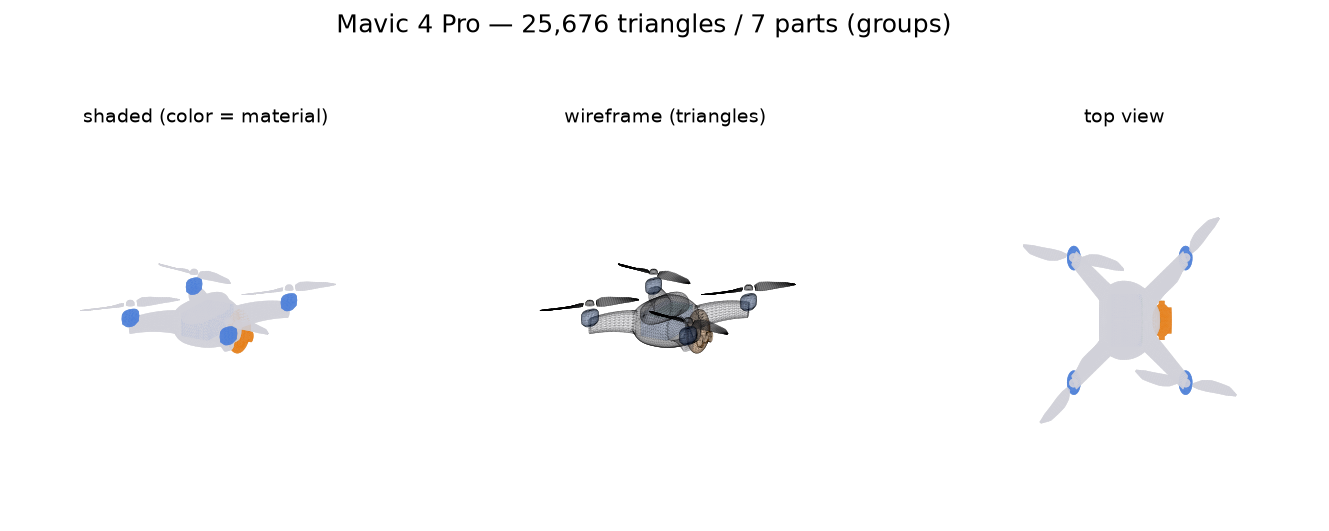
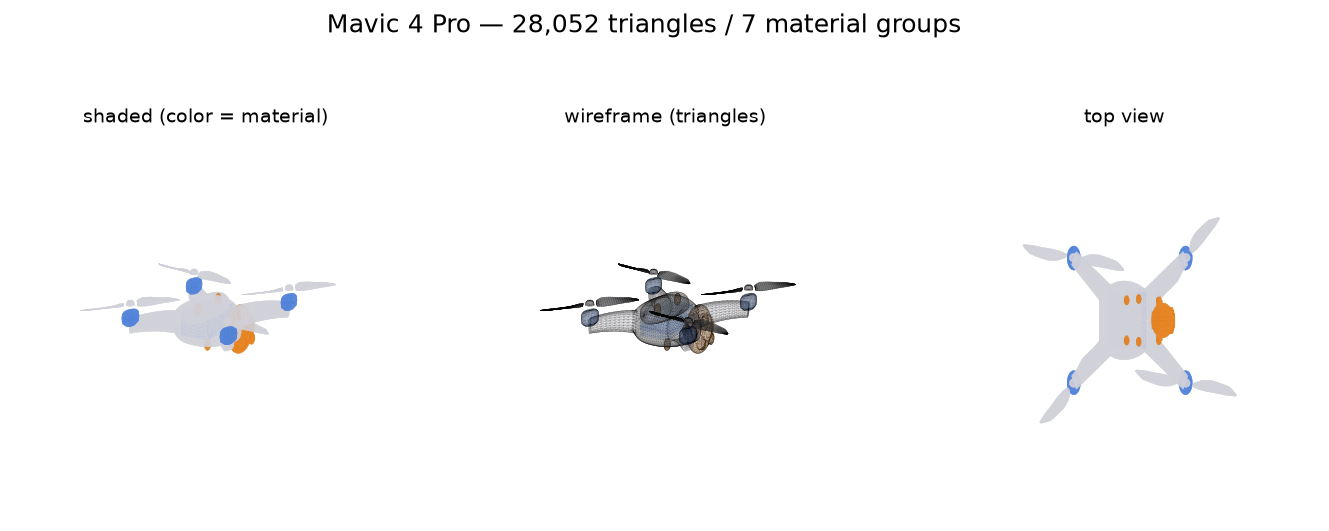
report_mesh 8편 폴리시 — 병렬 리뷰(29에이전트) 확정 findings 적용 (파일 1~8 순차)
mesh01: 그림 삼각형수 재생성(28,052)·제목 'material groups'·Mini 대각 저널서술→현재상태·경로참조·프롭 회색.
mesh02: viz_mesh_reports 함수 라인참조 152-178 정정.
mesh03: 원본 갤러리를 report03 실제 세트(Phantom·Typhoon·M100·M600, 원판프롭 라벨)로 교체·세트 문서 일치화·SOURCES 1345(13×4.5).
mesh04: 스캔중앙값 6.4→5.3mm·Matrice 대각부호 +2.30→-2.30%(abs→부호유지)·accent 색주장→플라스틱회색·carbon 범례.
mesh05: micro-Doppler §4→§5·Matrice RPM 3800 근거·프롭지름 267mm 통일·팁각 범위 Matrice 포함·프롭 면적 43%.
mesh06: accent 오주장 제거·prop_plastic 실효|Γ| 행 추가·이모지 🔎→⚠.
mesh07: mesh08 교차참조 §목록 정정·요약에 부위(그룹) 층 추가.
mesh08: 대각부호·수렴 dB경계 Phantom 포함·최대값 표현 정리.

diff --git a/report_mesh/src/make_mesh08.py b/report_mesh/src/make_mesh08.py
@@ -141,7 +141,7 @@ md(
 "2. **직접 먹인 값 (프로펠러 지름)** — 스펙 지름을 파라메트릭 블레이드에 직접 넣는다. 그런데 5종 모두 오차가 약 "
 f"+{prop_err['mavic4pro']:.2f}% 로 **똑같다** — 5종이 같은 블레이드 함수(`drone_cad.py:334` `build_propeller_cad`, 스키미터 후퇴 + 팁 마감)를 반경만 바꿔 쓰므로, 팁 최외곽점이 명목 반경을 살짝 넘는 파라메트릭 형상 특성이 공통 비율로 나타난 것이다. 결함이 아니라 형상 선택의 흔적이다.",
 "3. **따라나온 값 (대각선)** — 외형을 공식값에 맞춘 **결과로 유도되는** 모터-모터 거리. 아무도 직접 맞추지 않았으므로 이것이 **진짜 교차검증**이다. 최대 "
-f"{max(abs(v) for v in diag_err.values()):+.2f}% ({NAME[max(diag_err, key=lambda k: abs(diag_err[k]))]}) 로, 두 공식값(외형 상자 vs 대각)이 동시에 정확히는 양립하지 않는 기종에서 외형을 우선한 대가다.",
+f"{diag_err[max(diag_err, key=lambda k: abs(diag_err[k]))]:+.2f}% ({NAME[max(diag_err, key=lambda k: abs(diag_err[k]))]}) 로, 두 공식값(외형 상자 vs 대각)이 동시에 정확히는 양립하지 않는 기종에서 외형을 우선한 대가다.",
 ),
 
 # ── 4. 치수 표 코드 ──────────────────────────────────────────────────────
@@ -300,11 +300,11 @@ for key, h in H.items():
 md(
 "![convergence](outputs/figures/convergence.png)",
 "",
-f"(a) Mavic 4 Pro 의 방위 RCS 패턴 — λ/10(파랑)과 λ/20(빨강)이 로브(봉우리) 영역에서는 거의 포개진다. 방위평균 이동은 {hm['azavg_dbsm']['diff']:+.2f} dB(Phantom 4 는 {hp['azavg_dbsm']['diff']:+.2f} dB) — **±0.4 dB 이내**다. (b) 는 다음 절의 SBR 검사. ← 출처: 그림 `report_mesh/src/viz_mesh_reports.py:372-412` `fig_convergence()`",
+f"(a) Mavic 4 Pro 의 방위 RCS 패턴 — λ/10(파랑)과 λ/20(빨강)이 로브(봉우리) 영역에서는 거의 포개진다. 방위평균 이동은 {hm['azavg_dbsm']['diff']:+.2f} dB(Phantom 4 는 {hp['azavg_dbsm']['diff']:+.2f} dB) — **둘 다 ±{max(abs(hm['azavg_dbsm']['diff']), abs(hp['azavg_dbsm']['diff'])):.1f} dB 이내**다. (b) 는 다음 절의 SBR 검사. ← 출처: 그림 `report_mesh/src/viz_mesh_reports.py:372-412` `fig_convergence()`",
 "",
 "### 왜 개별 널은 " f"{hm['per_angle_absdiff_db']['max']:.0f} dB 씩 튀는데 괜찮다고 하는가",
 "",
-f"널은 여러 산란 기여가 **정확히 상쇄**되는 각도다. 노이즈캔슬링 이어폰이 위상이 조금만 어긋나도 '싹 사라짐'이 '조금 사라짐'으로 바뀌듯, 상쇄점 근처에서는 점 배치가 파장의 몇 % 만 달라져도 dB 눈금으로는 폭발적으로 변한다(0 에 가까운 값의 로그라 더 그렇다). 실제로 개별 각도 차이의 **평균은 {hm['per_angle_absdiff_db']['mean']:.1f}~{hp['per_angle_absdiff_db']['mean']:.1f} dB** 인데 최대만 {hm['per_angle_absdiff_db']['max']:.1f}~{hp['per_angle_absdiff_db']['max']:.1f} dB 다 — 흔들리는 것은 소수의 깊은 널뿐이다.",
+f"널은 여러 산란 기여가 **정확히 상쇄**되는 각도다. 노이즈캔슬링 이어폰이 위상이 조금만 어긋나도 '싹 사라짐'이 '조금 사라짐'으로 바뀌듯, 상쇄점 근처에서는 점 배치가 파장의 몇 % 만 달라져도 dB 눈금으로는 폭발적으로 변한다(0 에 가까운 값의 로그라 더 그렇다). 실제로 개별 각도 차이의 **평균은 {hm['per_angle_absdiff_db']['mean']:.1f}~{hp['per_angle_absdiff_db']['mean']:.1f} dB** 인데 최대만 {max(hm['per_angle_absdiff_db']['max'], hp['per_angle_absdiff_db']['max']):.1f} dB 안팎이다 — 흔들리는 것은 소수의 깊은 널뿐이다.",
 "",
 "**그리고 검출 문제에서 중요한 것은 평균이다.** 실제 드론은 자세가 계속 변하고 프로펠러가 돌아 널 위치가 쉼 없이 이동한다 — 수신기가 겪는 것은 특정 널 하나가 아니라 각도 분포의 **평균적 에너지**다. 그래서 이 시리즈의 RCS 결론(순서·규모)은 전부 방위평균 통계로 말하고, 개별 널 깊이는 애초에 주장하지 않는다. 이는 실측 문헌들의 RCS 도 세팅에 따라 ±수 dB 씩 흩어진다는 report08 의 스프레드 논거와 같은 이유다. ← 출처: `../report08.ipynb`(RCS 결과·문헌 대조 편)",
 ),

diff --git a/report_mesh/src/make_mesh05.py b/report_mesh/src/make_mesh05.py
@@ -156,8 +156,9 @@ f"T=C_T·ρ·n²·D⁴ + 교차검증). 플래시·팁속도·f_tip 은 λ={LAM_
 f"mesh_verify.json `meta.fc_ghz`)로 위 공식에서 계산한 값이다.",
 "",
 f"> ⚠ **주의**: Matrice 4E 의 호버 rpm({ROWS['matrice4e']['rpm']:g})은 **미해결**이다 — "
-f"C_T 법은 3950~4410, 공식 최대 rpm(7500, C2 인증) 앵커링은 4740~5300 을 준다. 우리는 어느 쪽이 "
-f"맞는지 **모른다**. 플래시·f_tip 이 이 값에 선형으로 걸린다 ← 출처: src/drones.py:139-144 note.",
+f"C_T 법은 3950~4410, 공식 최대 rpm(7500, C2 인증) 앵커링은 4740~5300 을 준다. 우리가 채택한 호버 rpm "
+f"3800(C_T≈0.108, T/W_max≈3.9)은 **두 방법의 범위보다 낮다** — 어느 쪽이 맞는지 **결론을 못 낸** 미해결 값이다. "
+f"플래시·f_tip 이 이 값에 선형으로 걸린다 ← 출처: src/drones.py:139-144 note.",
 "",
 "그래서 프로펠러의 **모양**이 틀리면 이 지문 전체가 틀린다. 날의 폭(시위)·비틀림(피치)·휨(스큐)이 "
 "각도별 반짝임의 세기와 타이밍을 정하기 때문이다. 마이크로도플러 결과는 **report08** "
@@ -292,7 +293,7 @@ f"- **S1000+** (빨간 곡선)는 반대로 R={ROWS['s1000plus']['R_mm']:.1f} mm
 f"이어지고, 팁 피치각 {ROWS['s1000plus']['th_tip']:.1f}° 로 다섯 중 가장 완만하다 — 큰 프롭을 천천히 "
 f"돌리는 리프터의 전형(P/D 비가 가장 작다).",
 f"- **Mavic 4 Pro·Matrice 4E·Phantom 4** 는 P 가 5.0~5.8″ 로 비슷해 곡선이 거의 겹친다 — 팁 "
-f"{ROWS['mavic4pro']['th_tip']:.1f}~{ROWS['phantom4']['th_tip']:.1f}° 대.",
+f"{ROWS['mavic4pro']['th_tip']:.1f}~{ROWS['matrice4e']['th_tip']:.1f}° 대.",
 "",
 "이 곡선이 바로 §5 로프트에서 각 단면에 주는 회전각이다. 아래 셀로 표를 재현할 수 있다.",
 ),
@@ -337,7 +338,7 @@ md(
 "| `pitch_deg`·`twist_deg` | 20°·13° | `pitch_m=None` 일 때만 쓰는 선형 워시아웃 **폴백** — 실제 프로펠러 빌드는 항상 스펙 P 를 `pitch_m` 으로 넘긴다 ← src/drone_cad.py:91-92·350 |",
 "| `sweep_frac` | 0.10 | **시미터 스큐**: y 이동량 = 0.10·R·sin(π/2·t) — 팁으로 갈수록 뒤로 휜다. DJI 저소음 프롭의 초승달 실루엣(투영 면적이 달라지므로 레이더에도 형상 인자) ← src/drone_cad.py:93 |",
 "| 두께비 | 0.09+0.05·(1−tti) | 앞의 NACA t 를 단면마다 다르게: **루트 14% → 팁 9% 테이퍼**(실물 프로펠러의 구조적 테이퍼 — 뿌리는 굽힘 하중을 버텨야 두껍고, 팁은 공력 효율을 위해 얇다) ← src/drone_cad.py:97-98 |",
-"| `n_sec`·`n_pts` | 22·36 | 스팬 단면 수·단면당 점 수 — 곡면 매끈함과 삼각형 수의 절충(§1: 프롭이 이미 전체 면의 절반) |",
+"| `n_sec`·`n_pts` | 22·36 | 스팬 단면 수·단면당 점 수 — 곡면 매끈함과 삼각형 수의 절충(§1: 프롭이 이미 전체 면의 약 43%) |",
 ),
 
 # ------------------------------------------------------- 10. §4b 로프트
@@ -378,7 +379,7 @@ md(
 "",
 "§3~5 의 유도가 코드에서 실제로 지켜지는지, 검증 스위트와 스펙 대조로 세 가지를 확인한다:",
 "",
-f"1. **프롭 지름** — 완성 메쉬에서 실측한 Mavic 4 Pro 프롭 지름은 공식값(266.7 mm) 대비 "
+f"1. **프롭 지름** — 완성 메쉬에서 실측한 Mavic 4 Pro 프롭 지름은 공식값(267 mm, 10.5″) 대비 "
 f"오차 **{PROP_ERR:+.2f}%** 다. 시위·스큐·로프트를 다 거친 뒤에도 반경이 스펙에서 벗어나지 "
 f"않는다는 뜻이다 ← 출처: mesh_verify.json `C_dims.mavic4pro.checks.prop_dia`.",
 f"2. **피치** — 모델별 비틀림 곡선 θ(r)(그림 b)이 스펙 피치 P 에서 θ(r)=atan(P/2πr) 로 "

diff --git a/report_mesh/src/make_mesh04.py b/report_mesh/src/make_mesh04.py
@@ -24,7 +24,10 @@ NAME = {k: DRONES[k].name for k in KEYS}
 # ---- 생성기에서 미리 계산해 두는 값(전부 JSON/DRONES 출처) ----------------------
 mini, ph, mav = DRONES["mini5pro"], DRONES["phantom4"], DRONES["mavic4pro"]
 worst_key = max(KEYS, key=lambda k: C[k]["worst_err_pct"])
-worst_pct = C[worst_key]["worst_err_pct"]
+worst_pct = C[worst_key]["worst_err_pct"]                       # 크기(부호 없음)
+_wd = C[worst_key]["checks"].get("diagonal")                   # 최악은 대각(종속값) — 부호 살리기
+worst_diag_signed = ((_wd["measured"] - _wd["official"]) / _wd["official"] * 100
+                     if _wd and _wd.get("official") else -worst_pct)
 sym_p95 = {k: B[k]["frame_only"]["chamfer_mm"]["p95"] for k in KEYS}
 sym_worst_key = max(sym_p95, key=sym_p95.get)
 full_p95 = {k: B[k]["full"]["chamfer_mm"]["p95"] for k in KEYS}
@@ -392,7 +395,7 @@ md(
 CDIMS_TABLE,
 "",
 f"읽는 법 — envelope 을 직접 맞춘 L/W/H 는 오차 0%. 전체 최악은 {NAME[worst_key]} 의 대각",
-f"{worst_pct:+.2f}% 인데, 이는 §3 의 규약대로 **대각이 배율에 끌려가는 종속 값**이기 때문이다",
+f"{worst_diag_signed:+.2f}% 인데(공식 438.8 → 실측 428.7, 축소), 이는 §3 의 규약대로 **대각이 배율에 끌려가는 종속 값**이기 때문이다",
 "(외형이 우선 ← src/drones.py:266-268 주석). 프로펠러 지름이 전 기종 일관되게 +0.84% 인 것은",
 "스케일 때문이 아니라 블레이드 로프트의 스팬 끝 처리(팁 라운딩)가 반경을 살짝 넘어서다 —",
 "프롭 편에서 다시 본다. fit_scale 을 보면 기종마다 실루엣이 공식 외형에서 얼마나 멀었는지도",
@@ -423,7 +426,7 @@ f"2. **앞 모터가 낮다** — `rotor_z_mm={mini.rotor_z_mm}`. 프롭 지름(
 "   주석 — \"실물은 앞 모터가 더 낮다(간섭 회피). 조사 확인\").",
 f"3. **착륙장치가 없다** — `gear={mini.gear!r}`. 실물이 아래 암과 동체 배로 앉는 기종이다(§2.1).",
 "",
-"색 규칙(모든 기종 공통): 플라스틱=밝은 회색(프로펠러 포함), 모터·배터리=파랑(금속), 카메라=주황,",
+"색 규칙(모든 기종 공통): 플라스틱=밝은 회색(프로펠러 포함), 모터·배터리=파랑(금속), 카본(암)=검정, 카메라=주황,",
 "PCB=초록 — **색이 곧 재질**이라 그림만 봐도 전파 물성이 읽힌다(← src/drones.py:375-391",
 "MATERIAL_COLOR·drone_colors docstring).",
 ),

diff --git a/report_mesh/src/make_mesh06.py b/report_mesh/src/make_mesh06.py
@@ -282,7 +282,7 @@ cells.append(md(
     "> \"부위 그룹 → **재질별** 표시색 RGB. **모든 드론이 같은 규칙**이라 색만 보면 재질을 안다:",
     "> plastic=회색(프로펠러 포함) · carbon=검정 · metal=파랑 · camera=주황 · pcb=초록.",
     "> (색과 전파재질은 **같은 그룹**(DRONE_GROUP_MAT)에서 나온다 — 이제 렌더 색이 곧 재질이다.)\"",
-    "> ← 출처: `src/drones.py:386-388`",
+    "> ← 출처: `src/drones.py:390-392`",
     "",
     "핵심은 마지막 괄호다: 색과 전파재질이 **같은 딕셔너리 한 곳**(DRONE_GROUP_MAT)에서",
     "나오므로, 색과 물성이 어긋나는 일이 구조적으로 불가능하다. '예쁜 그림용 색표'와",
@@ -363,6 +363,7 @@ cells.append(md(
     f"| 재질 | 벌크 프레넬 | 실효 \\|Γ\\| (채택) | 왜 다른가 (note 요약) |",
     "|---|---|---|---|",
     f"| `plastic` | {G_PLASTIC_BULK:.3f} | {GM['body']:.2f} | 셸이 1~3 mm **박막**이라 앞뒷면 간섭으로 \\|Γ\\| 가 0.1~0.45 를 오간다 — 벌크 값은 그 하한 근처라 대표값 0.28 채택 ← `materials.py:73-74` |",
+    f"| `prop_plastic` | {G_PLASTIC_BULK:.3f} | {GM.get('prop', 0.25):.2f} | `plastic` 과 **동일 재질·동일 회색**이지만, 프롭은 셸보다 **더 얇은 날개**라 실효 \\|Γ\\| 만 0.28→0.25 로 더 낮춘 대표값(정밀 두께모델 아님) ← `materials.py:78-85` |",
     f"| `carbon` | {G_CARBON_BULK:.3f} | {GM['arm']:.2f} | \"직조 섬유 사이 유전체 개구·이방성을 반영\" — 벌크는 금속 근접이지만 실물 CFRP 는 약간 샌다 ← `materials.py:81-84` |",
     f"| `pcb` | (ITU metal≈1.0) | {GM['pcb']:.2f} | \"부분 개구(커넥터·비도체 영역)를 반영한 실효 0.80\" — 반사면은 구리 그라운드플레인 ← `materials.py:59-62` |",
     f"| `camera_assembly` | (ITU metal≈1.0) | {GM['camera']:.2f} | 금속 하우징+**유리 렌즈+틈새** 복합 조립품의 실효값 ← `materials.py:52-58` |",

diff --git a/report_mesh/src/make_mesh01.py b/report_mesh/src/make_mesh01.py
@@ -115,7 +115,7 @@ cells = [
 md(
 "# mesh01 — 우리 드론 3D 모델, 왜 이렇게 만들었나 (전체 지도)",
 "",
-"> ⚠ **이 노트북은 생성물이다.** 수정은 `src/make_mesh01.py` 에서 하고 재실행할 것",
+"> ⚠ **이 노트북은 생성물이다.** 수정은 `report_mesh/src/make_mesh01.py` 에서 하고 재실행할 것",
 "> (`.ipynb` 를 직접 고치면 다음 빌드에서 사라진다).",
 "",
 f"**한 줄 요약** — 인터넷의 DJI 3D 모델은 시각용 껍데기라 레이더 시뮬레이션에 못 쓴다.",
@@ -313,12 +313,11 @@ md(
 "",
 "**정직성 원칙** — 모르는 값은 모른다고 적는다. 예컨대 Mini 5 Pro 스펙의 `note` 필드:",
 "",
-"> \"Diagonal (250 mm) not published by DJI — was estimated from the unfolded shape.",
-"> ⚠ 2026-07-14: after fitting the frame to the OFFICIAL envelope, the implied",
-"> motor-to-motor diagonal is 274.6 mm, i.e. the old 250 mm estimate was ~9% low.\"",
+"> \"Mini 5 Pro 의 대각(모터-모터 휠베이스)은 DJI 가 공개하지 않는다 — 공식 외형 상자(L×W×H)에",
+"> 맞춰 **재유도한 추정값 ≈ 275 mm** 이며, 코드에 '추정'으로 표시돼 있다.\"",
 "",
-"← 출처: `src/drones.py:98~102` (그대로 인용). 추정값은 추정이라고 표시하고, 나중에 더 좋은",
-"근거가 나오면 정정 이력까지 코드에 남긴다 — 이 습관 덕에 mesh04 의 치수 검증이 의미를 갖는다."),
+"← 출처: `src/drones.py` Mini 대각 주석. DJI 미공개 값은 이렇게 **추정임을 명시**하고 공식 외형에서",
+"재유도한다 — 스펙시트 숫자에서 형상을 짓는 파라메트릭 원칙이 여기서도 그대로 적용돼, mesh04 의 치수 검증이 의미를 갖는다."),
 
 # ── 10. §2.3 인터넷 모델·스캔의 올바른 자리 ───────────────────────────────
 md(

diff --git a/report_mesh/src/make_mesh07.py b/report_mesh/src/make_mesh07.py
@@ -62,7 +62,7 @@ cells.append(md(
     "> ⚠ **이 노트북은 생성물이다.** 수정은 `src/make_mesh07.py` 에서 하라.",
     "> 본문의 모든 수치는 `outputs/mesh_verify.json` (생성기: `report_mesh/src/verify_mesh_suite.py`)에서 읽어 넣었다 — 손으로 적은 숫자는 없다.",
     "",
-    f"**한 줄 요약** — 드론 5종·삼각형 {tot_faces:,}장·닫힌 부품 {tot_parts}개를 전수 검사한 결과, "
+    f"**한 줄 요약** — 드론 5종·삼각형 {tot_faces:,}장·부위(그룹) {tot_groups}개·닫힌 부품 {tot_parts}개를 전수 검사한 결과, "
     f"watertight {n_wt}/{tot_parts} 통과, 안쪽 법선 {tot_inward}건, 퇴화면 {tot_degen}장, "
     f"중복/미사용 꼭짓점 {tot_dup}/{tot_unused}개 — **기하 결함 0**. "
     "좌우비대칭·부위겹침처럼 '결함처럼 보이는 것'은 왜 결함이 아닌지까지 수치로 공개한다. "
@@ -495,7 +495,7 @@ cells.append(md(
     "삼각형이 건강함을 확인했으니, 다음 질문은 \"그래서 **실물과 맞는가**\"다.",
     "",
     "**다음 리포트 → mesh08 — 검증 ② (공식 제원 치수 대조·부피/암시밀도·실기체 스캔·PO/SBR 수치 수렴,",
-    "mesh_verify.json §C/§D/§E)**",
+    "mesh_verify.json §C/§D/§G/§H/§I)**",
 ))
 
 nb = {"cells": cells, "metadata": {"kernelspec": {"display_name": "py312",

diff --git a/report_mesh/src/make_mesh02.py b/report_mesh/src/make_mesh02.py
@@ -352,7 +352,7 @@ md(
 "![build_stages](outputs/figures/build_stages.png)",
 "",
 "**그림 1 — Mavic 4 Pro 파라메트릭 CAD 의 조립 순서** (파트 1개 = OBJ 1개 = Sionna 재질 1개)",
-"← 출처: src/viz_mesh_reports.py:144-165 `fig_build_stages()` 가 생성. 각 단계가 곧 위 도감의",
+"← 출처: report_mesh/src/viz_mesh_reports.py:152-178 `fig_build_stages()` 가 생성. 각 단계가 곧 위 도감의",
 "함수들이다:",
 "",
 "| 그림 속 단계 | 만든 함수 (도구) | 소스 |",

diff --git a/report_mesh/src/viz_mesh_reports.py b/report_mesh/src/viz_mesh_reports.py
@@ -142,7 +142,7 @@ def fig_wireframes():
             ax.set_title(title, fontsize=10)
         ng = VJ["A_geometry"][key]
         fig.suptitle(f"{NAME[key]} — {ng['n_faces']:,} triangles / "
-                     f"{ng['n_groups']} parts (groups)", fontsize=13)
+                     f"{ng['n_groups']} material groups", fontsize=13)
         _save(fig, f"wireframe_{key}")
 
 

diff --git a/assets/meshes/reference/SOURCES.md b/assets/meshes/reference/SOURCES.md
@@ -13,7 +13,7 @@
 |---|---|---|---|
 | `main_body_remeshed_v3.stl` 외 | **Yuneec Typhoon H480** (실제 헥사콥터) — 동체·다리·프롭·CGO3 짐벌 | [ethz-asl/rotors_simulator](https://github.com/ethz-asl/rotors_simulator) `rotors_gazebo/models/typhoon_h480` | Apache-2.0 |
 | `solo.stl`, `solo_prop_*.stl` | **3DR Solo** (실제 소비자용 쿼드) | 같은 저장소 `models/solo` | Apache-2.0 |
-| `1345_prop_cw.stl` | **Holybro 1345 프로펠러** (13.45인치 실물) | [PX4/PX4-gazebo-models](https://github.com/PX4/PX4-gazebo-models) `models/x500_base` | BSD-3-Clause |
+| `1345_prop_cw.stl` | **Holybro 1345 프로펠러** (13×4.5 — 13인치 지름·4.5피치, 실측 스팬 346 mm) | [PX4/PX4-gazebo-models](https://github.com/PX4/PX4-gazebo-models) `models/x500_base` | BSD-3-Clause |
 | `5010Bell.dae` | **5010 아웃러너 모터 벨** (실물) | 같은 저장소 | BSD-3-Clause |
 | `NXP-HGD-CF.dae` | **Holybro X500 카본 프레임** (실물) | 같은 저장소 | BSD-3-Clause |
 
